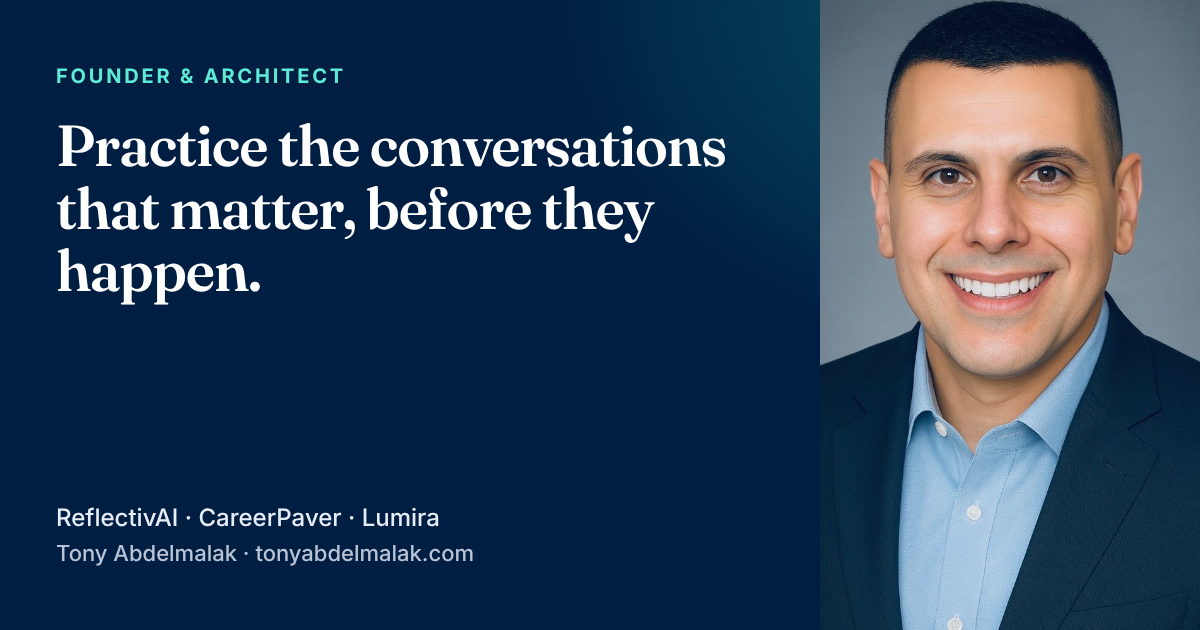
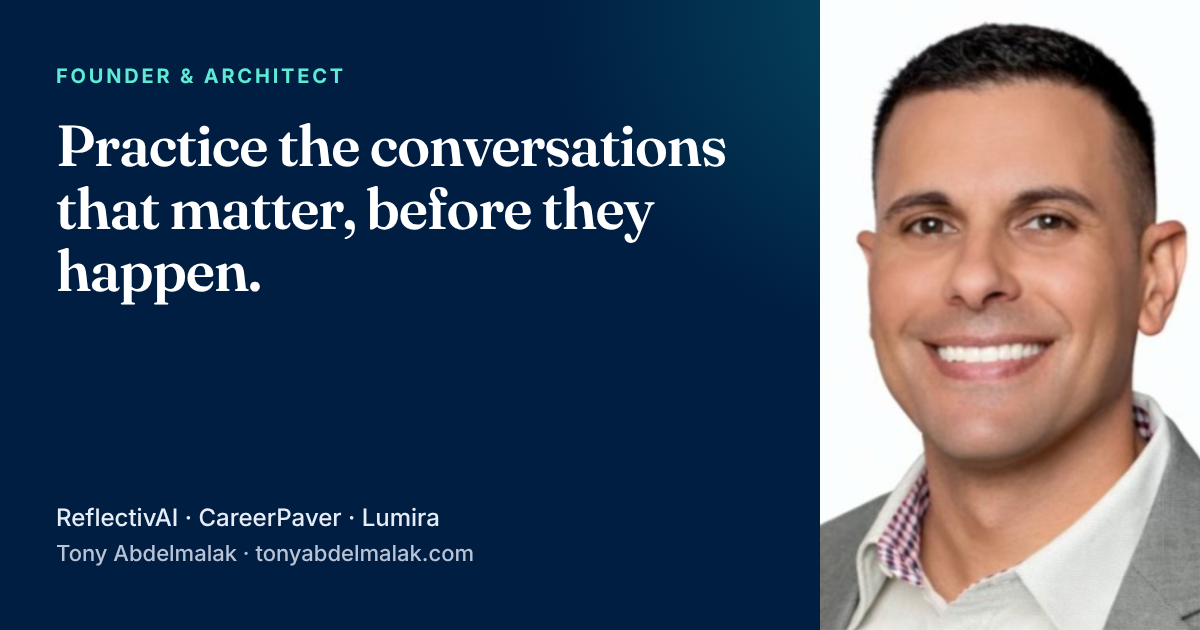
Hero: use Tony's LinkedIn headshot instead of generated portrait
Square frame for the real photo; link-preview card regenerated.

Claude-Session: https://claude.ai/code/session_019WChSkXaFv5ErH26NDR1nj

Changed region(s): [[0.6783, 0.0, 1.0, 1.0]]

diff --git a/index.html b/index.html
@@ -26,11 +26,11 @@
   <link rel="preconnect" href="https://fonts.googleapis.com">
   <link rel="preconnect" href="https://fonts.gstatic.com" crossorigin>
   <link href="https://fonts.googleapis.com/css2?family=Fraunces:ital,opsz,wght@0,9..144,500..700;1,9..144,500..700&family=Inter:wght@400;500;600;700&display=swap" rel="stylesheet">
-  <link rel="preload" as="image" href="/assets/img/tony-portrait.webp" type="image/webp">
+  <link rel="preload" as="image" href="/assets/img/tony-headshot.webp" type="image/webp">
   <script>document.documentElement.classList.add("js")</script>
   <link rel="stylesheet" href="/assets/css/site.css?v=20261113">
   <script type="application/ld+json">
-  {"@context":"https://schema.org","@type":"Person","name":"Tony Abdelmalak","url":"https://tonyabdelmalak.com/","image":"https://tonyabdelmalak.com/assets/img/tony-portrait.jpg","jobTitle":"Founder & Architect","worksFor":[{"@type":"Organization","name":"ReflectivAI","url":"https://reflectiv-ai.com"},{"@type":"Organization","name":"CareerPaver","url":"https://careerpaverai.com"},{"@type":"Organization","name":"Lumira","url":"https://lumiraconnect.com"}],"alumniOf":{"@type":"CollegeOrUniversity","name":"University of California, San Diego"},"address":{"@type":"PostalAddress","addressLocality":"Los Angeles","addressRegion":"CA"},"sameAs":["https://www.linkedin.com/in/tony-abdelmalak"]}
+  {"@context":"https://schema.org","@type":"Person","name":"Tony Abdelmalak","url":"https://tonyabdelmalak.com/","image":"https://tonyabdelmalak.com/assets/img/tony-headshot.jpg","jobTitle":"Founder & Architect","worksFor":[{"@type":"Organization","name":"ReflectivAI","url":"https://reflectiv-ai.com"},{"@type":"Organization","name":"CareerPaver","url":"https://careerpaverai.com"},{"@type":"Organization","name":"Lumira","url":"https://lumiraconnect.com"}],"alumniOf":{"@type":"CollegeOrUniversity","name":"University of California, San Diego"},"address":{"@type":"PostalAddress","addressLocality":"Los Angeles","addressRegion":"CA"},"sameAs":["https://www.linkedin.com/in/tony-abdelmalak"]}
   </script>
 </head>
 <body>
@@ -75,8 +75,8 @@
         <div class="portrait">
           <div class="portrait__frame">
             <picture>
-              <source srcset="/assets/img/tony-portrait.webp" type="image/webp">
-              <img src="/assets/img/tony-portrait.jpg" width="800" height="1000" alt="Tony Abdelmalak, smiling, in a navy blazer">
+              <source srcset="/assets/img/tony-headshot.webp" type="image/webp">
+              <img src="/assets/img/tony-headshot.jpg" width="800" height="800" alt="Tony Abdelmalak, smiling, in a gray blazer">
             </picture>
           </div>
           <button class="portrait__chip" type="button" data-open-chat>

diff --git a/assets/css/site.css b/assets/css/site.css
@@ -167,10 +167,10 @@ p { margin: 0 0 var(--space-4); max-width: var(--measure); }
 .hero__proof li { font-size: .85rem; color: var(--on-navy-muted); padding: .35rem .75rem; border: 1px solid rgba(255,255,255,.14); border-radius: 999px; }
 .portrait { position: relative; justify-self: center; width: min(420px, 100%); }
 .portrait__frame {
-  position: relative; border-radius: var(--radius-l); overflow: hidden; aspect-ratio: 4 / 5; background: #0b2c57;
+  position: relative; border-radius: var(--radius-l); overflow: hidden; aspect-ratio: 1 / 1; background: #f4f6f8;
   box-shadow: var(--shadow-3); border: 1px solid rgba(255,255,255,.12);
 }
-.portrait__frame img { width: 100%; height: 100%; object-fit: cover; object-position: 50% 22%; }
+.portrait__frame img { width: 100%; height: 100%; object-fit: cover; object-position: 50% 30%; }
 .portrait__chip {
   position: absolute; left: -18px; bottom: 28px; display: flex; align-items: center; gap: .7rem; max-width: 260px;
   padding: .75rem 1rem; border-radius: 16px; background: rgba(255,255,255,.96); color: var(--ink); box-shadow: var(--shadow-2);
